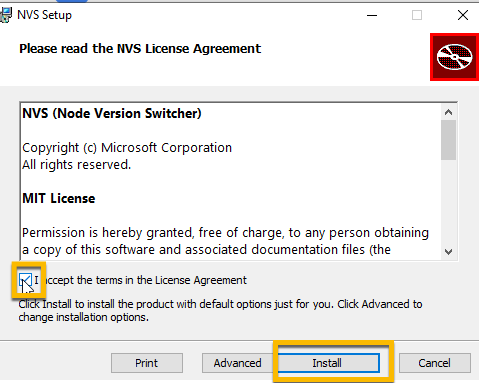
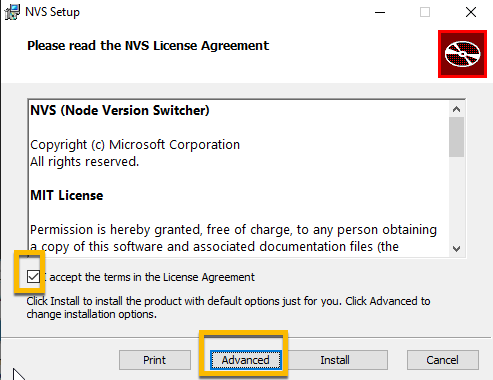
Fixed nvs install steps

diff --git a/Setup/fr0101_Setup-Developer-Workstation.md b/Setup/fr0101_Setup-Developer-Workstation.md
@@ -697,17 +697,31 @@ https://github.com/jasongin/nvs/releases/download/v1.6.0/nvs-1.6.0.msi
 
 ![Nodejs-install-0](./images/fr0101-11_Nodejs-install-0.png "Nodejs-install-0")
 
-3. From your Downloads folder click the .msi file to Install nvs using the defaults
+3. From your Downloads folder click the .msi file to Install nvs as follows:
 
 ![Nodejs-install-1](./images/fr0101-11_Nodejs-install-1.png "Nodejs-install-1")
 
+![Nodejs-install-1](./images/fr0101-11_Nodejs-install-1-1.png "Nodejs-install-1")
+
+![Nodejs-install-1](./images/fr0101-11_Nodejs-install-1-2.png "Nodejs-install-1")
+
+![Nodejs-install-1](./images/fr0101-11_Nodejs-install-1-3.png "Nodejs-install-1")
+
+![Nodejs-install-1](./images/fr0101-11_Nodejs-install-1-4.png "Nodejs-install-1")
+
 ![Nodejs-install-1](./images/fr0101-11_Nodejs-install-2.png "Nodejs-install-1")
 
-4. From Windows command prompt, add nvs to path and add and use Node Version 16 latest release
+4. Open Windows command as Administrator 
+
+![Nodejs-install-1](./images/fr0101-11_Nodejs-install-2-1.png "Nodejs-install-1")
+
+![Nodejs-install-1](./images/fr0101-11_Nodejs-install-2-2.png "Nodejs-install-1")
+
+![Nodejs-install-1](./images/fr0101-11_Nodejs-install-2-3.png "Nodejs-install-1")
+
+- Add and use Node Version 16 - the latest release
 
 ```
-    setx path "%path%;C:\Users\Local_Admin\AppData\Local\nvs\;
-
     nvs add 16
 
     nvs use 16
